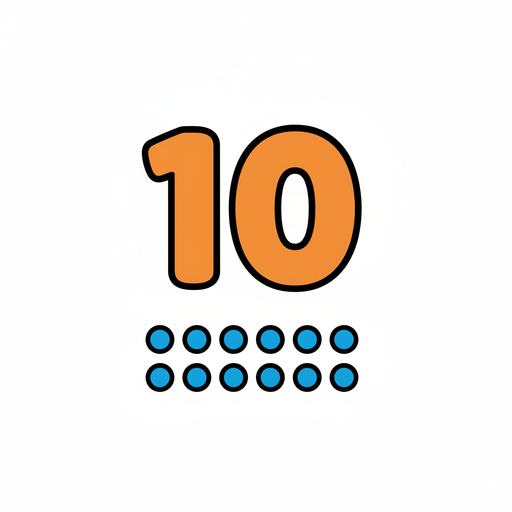
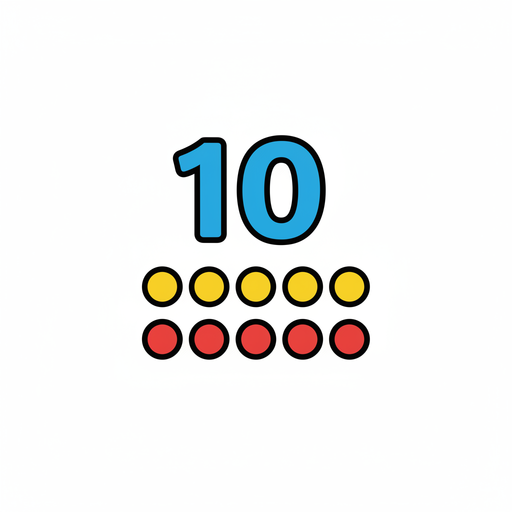
fix: distinguish goodbye art, correct number 8/9/10 dot counts, ease Colors unlock
- goodbye now shows a child walking away waving over their shoulder
  instead of a static waving hand, so it's no longer visually identical
  to hello's front-facing wave (answer choices are seeded deterministically,
  so this had made the goodbye question a permanent coin-flip).
- number-8/9/10 descriptions now specify exact dot counts and forbid a
  box/frame; regenerated all three images and verified dot counts via a
  pixel-blob-counting script plus manual visual inspection (8 dots in a
  4x2 grid, 9 dots in a 3x3 grid, 10 dots in two rows of 5 - all confirmed
  correct, no ten-frame box artifact).
- Colors level unlockThreshold lowered from 90 to 80 (90 required a
  mistake-free playthrough of levels 1-4; 80 leaves ~13 stars of slack).

Changed region(s): [[0.25, 0.2188, 0.7188, 0.7812]]

diff --git a/content/vocab.ts b/content/vocab.ts
@@ -23,7 +23,7 @@ export const LEVELS: LevelSource[] = [
   { id: 2, name: 'People & Family', order: 2, unlockThreshold: 20 },
   { id: 3, name: 'Descriptors & Animals', order: 3, unlockThreshold: 40 },
   { id: 4, name: 'Numbers', order: 4, unlockThreshold: 60 },
-  { id: 5, name: 'Colors', order: 5, unlockThreshold: 90 },
+  { id: 5, name: 'Colors', order: 5, unlockThreshold: 80 },
 ]
 
 export const VOCAB_ITEMS: VocabSourceItem[] = [
@@ -32,7 +32,7 @@ export const VOCAB_ITEMS: VocabSourceItem[] = [
   { slug: 'hello-everyone', category: 'greetings', level: 1, cantonese: '大家好', jyutping: 'daai6 gaa1 hou2', englishGloss: 'hello everyone', description: 'three cartoon friends waving hello together' },
   { slug: 'good-morning', category: 'greetings', level: 1, cantonese: '早晨', jyutping: 'zou2 san4', englishGloss: 'good morning', description: 'a bright cartoon sun rising over hills' },
   { slug: 'good-evening', category: 'greetings', level: 1, cantonese: '晚安', jyutping: 'maan5 on1', englishGloss: 'good evening', description: 'a cartoon crescent moon with stars at night' },
-  { slug: 'goodbye', category: 'greetings', level: 1, cantonese: '拜拜', jyutping: 'baai1 baai3', englishGloss: 'goodbye', description: 'a cartoon hand waving goodbye' },
+  { slug: 'goodbye', category: 'greetings', level: 1, cantonese: '拜拜', jyutping: 'baai1 baai3', englishGloss: 'goodbye', description: 'a cartoon child walking away while waving goodbye over their shoulder, seen from behind' },
   { slug: 'thank-you', category: 'greetings', level: 1, cantonese: '唔該', jyutping: 'm4 goi1', englishGloss: 'thank you', description: 'two cartoon hands pressed together in a thank-you gesture' },
   { slug: 'excuse-me', category: 'greetings', level: 1, cantonese: '唔好意思', jyutping: 'm4 hou2 ji3 si1', englishGloss: 'excuse me', description: 'a cartoon hand raised politely asking for attention' },
   { slug: 'sorry', category: 'greetings', level: 1, cantonese: '對唔住', jyutping: 'deoi3 m4 zyu6', englishGloss: 'sorry', description: 'a cute cartoon face looking sorry with one small tear' },
@@ -59,9 +59,9 @@ export const VOCAB_ITEMS: VocabSourceItem[] = [
   { slug: 'number-5', category: 'numbers', level: 4, cantonese: '五', jyutping: 'ng5', englishGloss: 'five', description: 'the numeral 5 with five small dots below it' },
   { slug: 'number-6', category: 'numbers', level: 4, cantonese: '六', jyutping: 'luk6', englishGloss: 'six', description: 'the numeral 6 with six small dots below it' },
   { slug: 'number-7', category: 'numbers', level: 4, cantonese: '七', jyutping: 'cat1', englishGloss: 'seven', description: 'the numeral 7 with seven small dots below it' },
-  { slug: 'number-8', category: 'numbers', level: 4, cantonese: '八', jyutping: 'baat3', englishGloss: 'eight', description: 'the numeral 8 with eight small dots below it' },
-  { slug: 'number-9', category: 'numbers', level: 4, cantonese: '九', jyutping: 'gau2', englishGloss: 'nine', description: 'the numeral 9 with nine small dots below it', homophoneGroup: 'gau2' },
-  { slug: 'number-10', category: 'numbers', level: 4, cantonese: '十', jyutping: 'sap6', englishGloss: 'ten', description: 'the numeral 10 with ten small dots below it' },
+  { slug: 'number-8', category: 'numbers', level: 4, cantonese: '八', jyutping: 'baat3', englishGloss: 'eight', description: 'the numeral 8 with exactly eight small loose dots below it, no box or frame around the dots' },
+  { slug: 'number-9', category: 'numbers', level: 4, cantonese: '九', jyutping: 'gau2', englishGloss: 'nine', description: 'the numeral 9 with nine small loose dots below it arranged in a 3 by 3 grid: three dots in the top row, three dots in the middle row, three dots in the bottom row, nine dots total, no box or frame around the dots', homophoneGroup: 'gau2' },
+  { slug: 'number-10', category: 'numbers', level: 4, cantonese: '十', jyutping: 'sap6', englishGloss: 'ten', description: 'the numeral 10 with small loose dots below it in two short rows stacked one above the other: the top row has a first, second, third, fourth, and fifth dot; the bottom row has a sixth, seventh, eighth, ninth, and tenth dot; ten dots total and nothing below the second row, no box or frame around the dots' },
   // Level 5: Colors
   { slug: 'color-red', category: 'colors', level: 5, cantonese: '紅色', jyutping: 'hung4 sik1', englishGloss: 'red', description: 'a solid red paint splotch blob shape' },
   { slug: 'color-orange', category: 'colors', level: 5, cantonese: '橙色', jyutping: 'caang2 sik1', englishGloss: 'orange', description: 'a solid orange paint splotch blob shape' },
